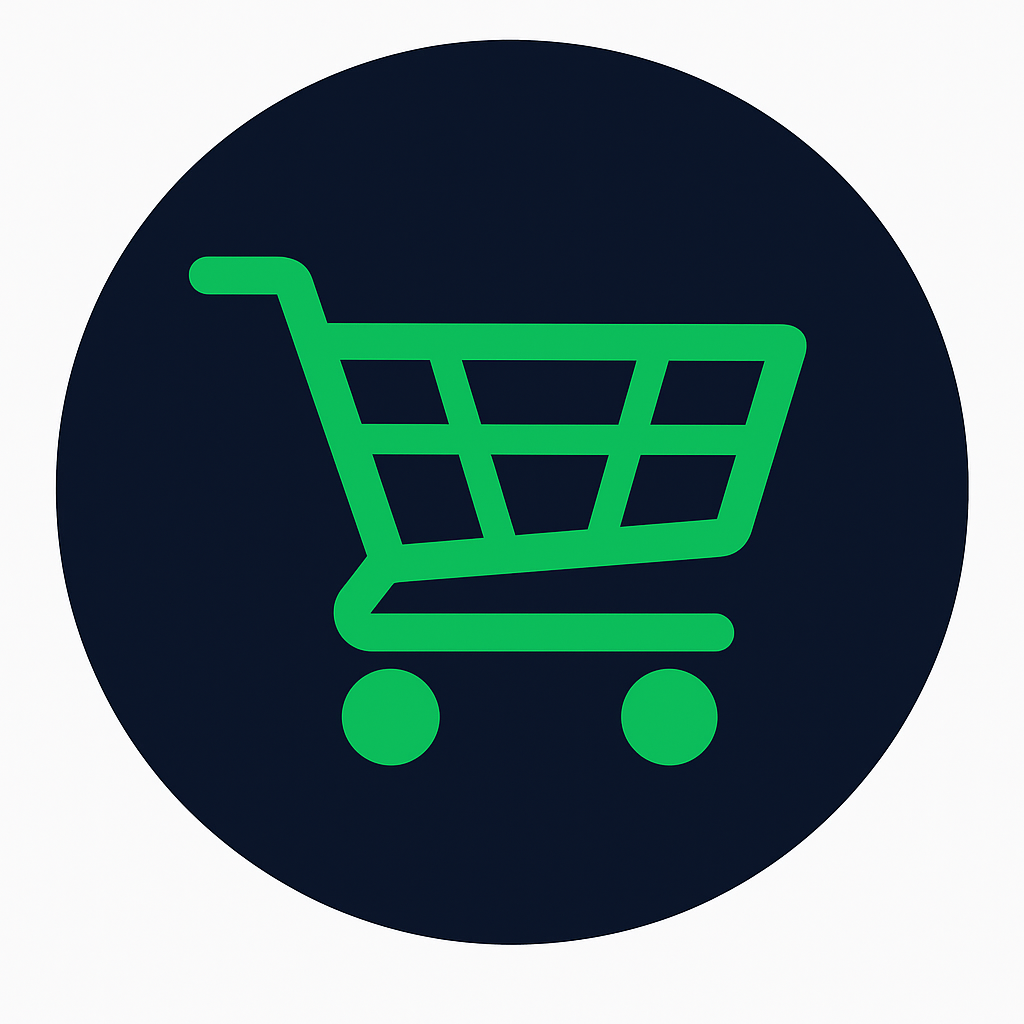
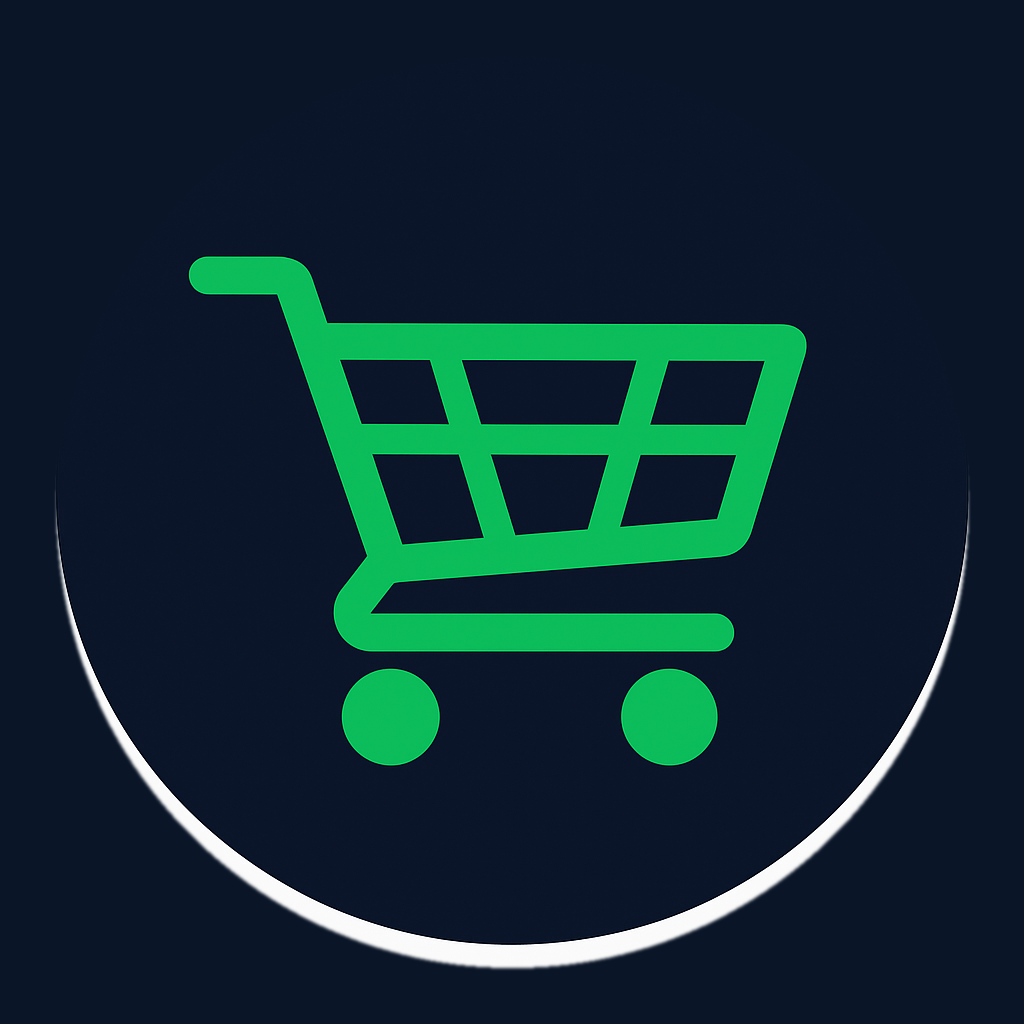
Add files via upload

diff --git a/index.html b/index.html
@@ -44,10 +44,24 @@
 
   table{width:100%;border-collapse:collapse;margin-top:8px;table-layout:fixed}
   .table-wrap{max-width:100%;overflow-x:hidden}
-  .cart-table th,.cart-table td{padding:7px 3px;font-size:clamp(10px,2.9vw,14px);overflow-wrap:anywhere}
-  .cart-table th:first-child{width:31%}.cart-table th:nth-child(2){width:20%}.cart-table th:nth-child(3){width:12%}.cart-table th:nth-child(4){width:23%}.cart-table th:last-child{width:14%}
+  .cart-table th,.cart-table td{padding:7px 3px;font-size:clamp(13px,3.7vw,16px);overflow-wrap:anywhere}
+  .cart-table th:first-child{width:27%}.cart-table th:nth-child(2){width:23%}.cart-table th:nth-child(3){width:12%}.cart-table th:nth-child(4){width:25%}.cart-table th:last-child{width:13%}
   .cart-table .ghost{padding:6px 3px;min-width:26px}
   .tap-number{border:0;background:transparent;color:var(--ink);padding:7px 0;text-decoration:underline;text-decoration-style:dotted;text-underline-offset:4px;cursor:pointer;max-width:100%;font-size:inherit}
+  /* Habituales: casillas redondas pero selección múltiple */
+  .fav-check{appearance:none;-webkit-appearance:none;width:22px;height:22px;min-width:22px;vertical-align:middle;border:2px solid #22c55e;border-radius:50%;background:#0b1220;margin:0 10px 0 0;cursor:pointer;position:relative}
+  .fav-check:checked{background:#22c55e}
+  .fav-check:checked::after{content:'✓';position:absolute;inset:-2px 0 0;text-align:center;color:#05210e;font-size:16px;font-weight:900}
+  .fav-check:focus-visible{outline:2px solid white;outline-offset:2px}
+  .favorite-label{display:flex;align-items:center;cursor:pointer;min-height:38px}
+  /* Edición táctil, sin prompts nativos */
+  .edit-overlay{position:fixed;inset:0;z-index:90;background:rgba(0,0,0,.72);display:flex;align-items:center;justify-content:center;padding:18px}
+  .edit-panel{background:#111827;color:var(--ink);width:min(100%,390px);border:1px solid #475569;border-radius:16px;padding:20px;box-shadow:0 16px 48px #0009}
+  .edit-panel h3{margin:0 0 12px;color:var(--acc);font-size:1.12rem}
+  .edit-panel label{display:block;margin-bottom:8px}
+  .edit-panel input{font-size:1.35rem;padding:13px}
+  .edit-buttons{display:flex;gap:10px;justify-content:flex-end;margin-top:16px}
+  .edit-buttons button{min-width:100px}
   .pill{background:#0b1220;border:1px solid var(--line);color:var(--ink);border-radius:10px;padding:10px;cursor:pointer}
   .small-row{display:flex;align-items:center;justify-content:space-between;gap:8px;padding:9px 0;border-bottom:1px solid var(--line)}
   .small-row .name{min-width:0;overflow-wrap:anywhere;flex:1}
@@ -100,7 +114,7 @@
     <div class="row">
       <input id="prod" placeholder="Producto" autocapitalize="sentences">
       <input id="precio" type="number" placeholder="Precio/U (CLP)">
-      <input id="cant" type="number" placeholder="Cantidad" step="0.01">
+      <input id="cant" type="number" inputmode="numeric" min="1" step="1" placeholder="Cantidad">
       <button id="add" class="ok">Agregar</button>
       <div class="total-inline">Total:
         <span id="totalInline" class="total-badge">$0</span>
@@ -178,6 +192,14 @@
 
 <button id="openCart" class="fab">🛒 Ver carrito<span id="cartCount" class="fab-count">(0)</span></button>
 <div id="toast"></div>
+<div id="editOverlay" class="edit-overlay hidden" role="dialog" aria-modal="true" aria-labelledby="editTitle">
+  <div class="edit-panel">
+    <h3 id="editTitle">Editar producto</h3>
+    <label id="editLabel" for="editValue">Nuevo valor</label>
+    <input id="editValue" type="text" inputmode="numeric" autocomplete="off" pattern="[0-9]*">
+    <div class="edit-buttons"><button id="cancelEdit" type="button" class="ghost">Cancelar</button><button id="saveEdit" type="button" class="ok" style="width:auto">Guardar</button></div>
+  </div>
+</div>
 
 <script>
 const CART_KEY='carrito_v1', HISTORY_KEY='carrito_historial_v2';
@@ -192,6 +214,7 @@ const escapeHtml=s=>String(s).replace(/[&<>"']/g,c=>({'&':'&amp;','<':'&lt;','>'
 const norm=s=>String(s).trim().toLocaleLowerCase('es-CL');
 const titleName=s=>{let a=String(s).trim().replace(/\s+/g,' ');return a?a[0].toLocaleUpperCase('es-CL')+a.slice(1):'';};
 const money=n=>Number.isFinite(Number(n))?Math.max(0,Number(n)):0;
+const positiveInteger=n=>Number.isSafeInteger(n)&&n>0;
 function toast(m,ms=1700){let t=$('toast');t.textContent=m;t.classList.add('show');clearTimeout(t._t);t._t=setTimeout(()=>t.classList.remove('show'),ms);}
 function saveCart(){localStorage.setItem(CART_KEY,JSON.stringify(data));}
 function saveLists(){localStorage.setItem(PENDING_KEY,JSON.stringify(pending));localStorage.setItem(FAV_KEY,JSON.stringify(favorites));}
@@ -212,7 +235,7 @@ function recalc(){
 }
 function addItem(){
  let p=titleName($('prod').value),u=+$('precio').value,q=+$('cant').value;
- if(!p||!(u>0)||!(q>0))return toast('Completa los campos');
+ if(!p||!positiveInteger(u)||!positiveInteger(q))return toast('Precio y cantidad deben ser enteros mayores que cero');
  data.push({p,u,q});$('prod').value='';$('precio').value='';$('cant').value='';saveCart();recalc();toast('✅ Agregado');
 }
 function addPending(name){const p=titleName(name);if(!p)return false;
@@ -220,25 +243,44 @@ function addPending(name){const p=titleName(name);if(!p)return false;
  pending.push(p);saveLists();paintPending();return true;
 }
 function paintPending(){
- const rows=pending.map((p,i)=>`<div class="small-row"><span class="name">${escapeHtml(p)}</span><button class="pill" data-pick="${i}">🛒 Recoger</button><button class="ghost" data-pdel="${i}" aria-label="Quitar ${escapeHtml(p)}">🗑</button></div>${openPending===i?`<div class="mini-inputs"><div><label for="pickPrice">Precio unitario ($)</label><input id="pickPrice" type="number" min="1" inputmode="numeric" placeholder="Precio real"></div><div><label for="pickQty">Cantidad</label><input id="pickQty" type="number" min="0.01" step="0.01" inputmode="decimal" value="1"></div></div><button id="confirmPick" class="ok">✅ Agregar al carro</button><div style="height:8px"></div>`:''}`).join('');
+ const rows=pending.map((p,i)=>`<div class="small-row"><span class="name">${escapeHtml(p)}</span><button class="pill" data-pick="${i}">🛒 Recoger</button><button class="ghost" data-pdel="${i}" aria-label="Quitar ${escapeHtml(p)}">🗑</button></div>${openPending===i?`<div class="mini-inputs"><div><label for="pickPrice">Precio unitario ($)</label><input id="pickPrice" type="number" min="1" inputmode="numeric" placeholder="Precio real"></div><div><label for="pickQty">Cantidad</label><input id="pickQty" type="number" min="1" step="1" inputmode="numeric" value="1"></div></div><button id="confirmPick" class="ok">✅ Agregar al carro</button><div style="height:8px"></div>`:''}`).join('');
  $('prepItems').innerHTML=pending.map((p,i)=>`<div class="small-row"><span class="name">${escapeHtml(p)}</span><button class="ghost" data-pdel="${i}" aria-label="Quitar ${escapeHtml(p)}">🗑</button></div>`).join('')||'<div class="note">Tu lista está vacía. Escribe el primer producto.</div>';
  $('pendingItems').innerHTML=rows||'<div class="note">No quedan productos pendientes.</div>';
  $('prepCount').textContent=pending.length;$('pendingCount').textContent=pending.length;
  if(openPending>=0){let f=favorites.find(x=>norm(x.p)===norm(pending[openPending]));if(f){$('pickPrice').value=f.u||'';$('pickQty').value=1;}}
 }
 function paintFavorites(){
- $('favoriteItems').innerHTML=favorites.length?favorites.map((x,i)=>`<div class="small-row"><label class="name"><input type="checkbox" data-fav="${i}" ${chosenFavorites.has(i)?'checked':''} style="width:auto;margin-right:8px">${escapeHtml(x.p)}</label><button class="ghost" data-fdel="${i}" aria-label="Quitar ${escapeHtml(x.p)} de habituales">🗑</button></div>`).join(''):'<div class="note">Todavía no hay productos habituales. Se crearán al finalizar tu primera compra.</div>';
+ $('favoriteItems').innerHTML=favorites.length?favorites.map((x,i)=>`<div class="small-row"><label class="name favorite-label"><input type="checkbox" data-fav="${i}" ${chosenFavorites.has(i)?'checked':''} class="fav-check">${escapeHtml(x.p)}</label><button class="ghost" data-fdel="${i}" aria-label="Quitar ${escapeHtml(x.p)} de habituales">🗑</button></div>`).join(''):'<div class="note">Todavía no hay productos habituales. Se crearán al finalizar tu primera compra.</div>';
 }
 function collectPending(){if(openPending<0||!pending[openPending])return;let u=Number($('pickPrice').value),q=Number($('pickQty').value);
- if(!(u>0)||!(q>0))return toast('Indica precio y cantidad');
+ if(!positiveInteger(u)||!positiveInteger(q))return toast('Precio y cantidad deben ser enteros mayores que cero');
  const p=pending.splice(openPending,1)[0];data.push({p,u,q});openPending=-1;saveCart();saveLists();recalc();toast('✅ Agregado al carro');
 }
 function delItem(i){data.splice(i,1);saveCart();recalc();}
-function editItem(i,kind){let x=data[i];if(!x)return;const isPrice=kind==='price';let old=isPrice?x.u:x.q;
- const raw=prompt(isPrice?`Nuevo precio unitario de ${x.p}:`:`Nueva cantidad de ${x.p}:`,String(old));
- if(raw===null)return;let n=Number(raw.replace(',','.').trim());if(!(n>0))return toast('Ingresa un número mayor que cero');
- if(isPrice)x.u=n;else x.q=n;saveCart();recalc();toast('✅ Actualizado');
+let editing=null;
+function editItem(i,kind){
+ const x=data[i];if(!x)return;
+ editing={i,kind};const isPrice=kind==='price';
+ $('editTitle').textContent=isPrice?'Editar precio':'Editar cantidad';
+ $('editLabel').textContent=(isPrice?'Nuevo precio unitario de ':'Nueva cantidad de ')+x.p;
+ $('editValue').value=String(isPrice?x.u:x.q);
+ $('editOverlay').classList.remove('hidden');
+ const inp=$('editValue');inp.focus();inp.select();
+ // La selección inicial permite reemplazar el valor sin borrarlo a mano.
+ setTimeout(()=>{if(editing)inp.select()},30);
 }
+function closeEdit(){$('editOverlay').classList.add('hidden');editing=null;}
+function saveEdit(){
+ if(!editing)return;
+ const n=Number($('editValue').value.trim());
+ if(!positiveInteger(n))return toast('Ingresa un número entero mayor que cero');
+ const {i,kind}=editing;if(!data[i])return closeEdit();
+ if(kind==='price')data[i].u=n;else data[i].q=n;
+ saveCart();recalc();closeEdit();toast('✅ Actualizado');
+}
+$('cancelEdit').onclick=closeEdit;$('saveEdit').onclick=saveEdit;
+$('editValue').onkeydown=e=>{if(e.key==='Enter')saveEdit();else if(e.key==='Escape')closeEdit();};
+$('editOverlay').onclick=e=>{if(e.target===$('editOverlay'))closeEdit();};
 function checkout(){
  if(!data.length)return toast('El carrito está vacío');
  if(pending.length&&!confirm(`Quedan ${pending.length} productos pendientes. ¿Finalizar solo con los recogidos?`))return;

diff --git a/sw.js b/sw.js
@@ -1,5 +1,5 @@
-const CACHE='carrito-super-v3-20261023';
-const FILES=['./','./index.html','./manifest.json','./icono.png'];
+const CACHE='carrito-super-v4-20261023';
+const FILES=['./','./index.html','./manifest.json','./icono.png','./icono-maskable.png'];
 self.addEventListener('install',e=>e.waitUntil(caches.open(CACHE).then(c=>c.addAll(FILES)).then(()=>self.skipWaiting())));
 self.addEventListener('activate',e=>e.waitUntil(Promise.all([caches.keys().then(keys=>Promise.all(keys.filter(k=>k!==CACHE).map(k=>caches.delete(k)))),self.clients.claim()])));
 self.addEventListener('fetch',e=>{if(e.request.method!=='GET'||new URL(e.request.url).origin!==self.location.origin)return;e.respondWith(caches.match(e.request).then(c=>c||fetch(e.request).then(r=>{if(r.ok){const clone=r.clone();caches.open(CACHE).then(cache=>cache.put(e.request,clone));}return r;})));});
